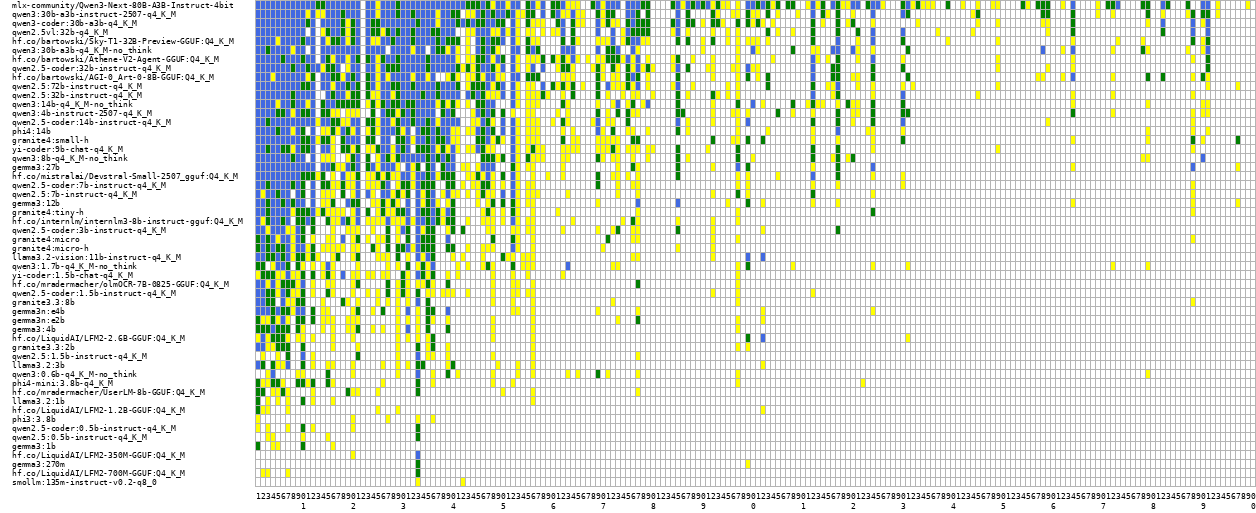
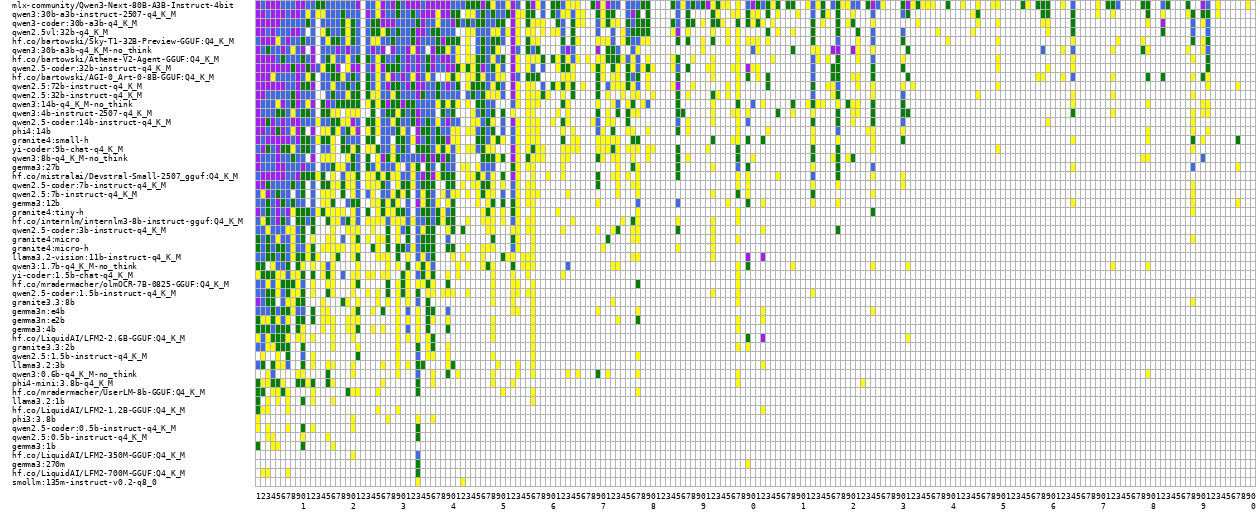
updated benchmark graphics (4 colours instead of 3)

diff --git a/benchmark_grid_draw.py b/benchmark_grid_draw.py
@@ -26,6 +26,7 @@ COLORS = {
     1: (255, 255, 0),  # yellow
     2: (0, 128, 0),  # green
     3: (65, 105, 225),  # blue
+    4: (160, 32, 240),  # purple
 }
 BORDER_COLOR = (180, 180, 180)
 TEXT_COLOR = (0, 0, 0)
@@ -69,8 +70,7 @@ def count_solutions(values: List[str]) -> List[int]:
 
 
 def color_for_count(count: int) -> Tuple[int, int, int]:
-    if count >= 3:
-        return COLORS[3]
+    if count >= 4: return COLORS[4]
     return COLORS[count]
 
 
